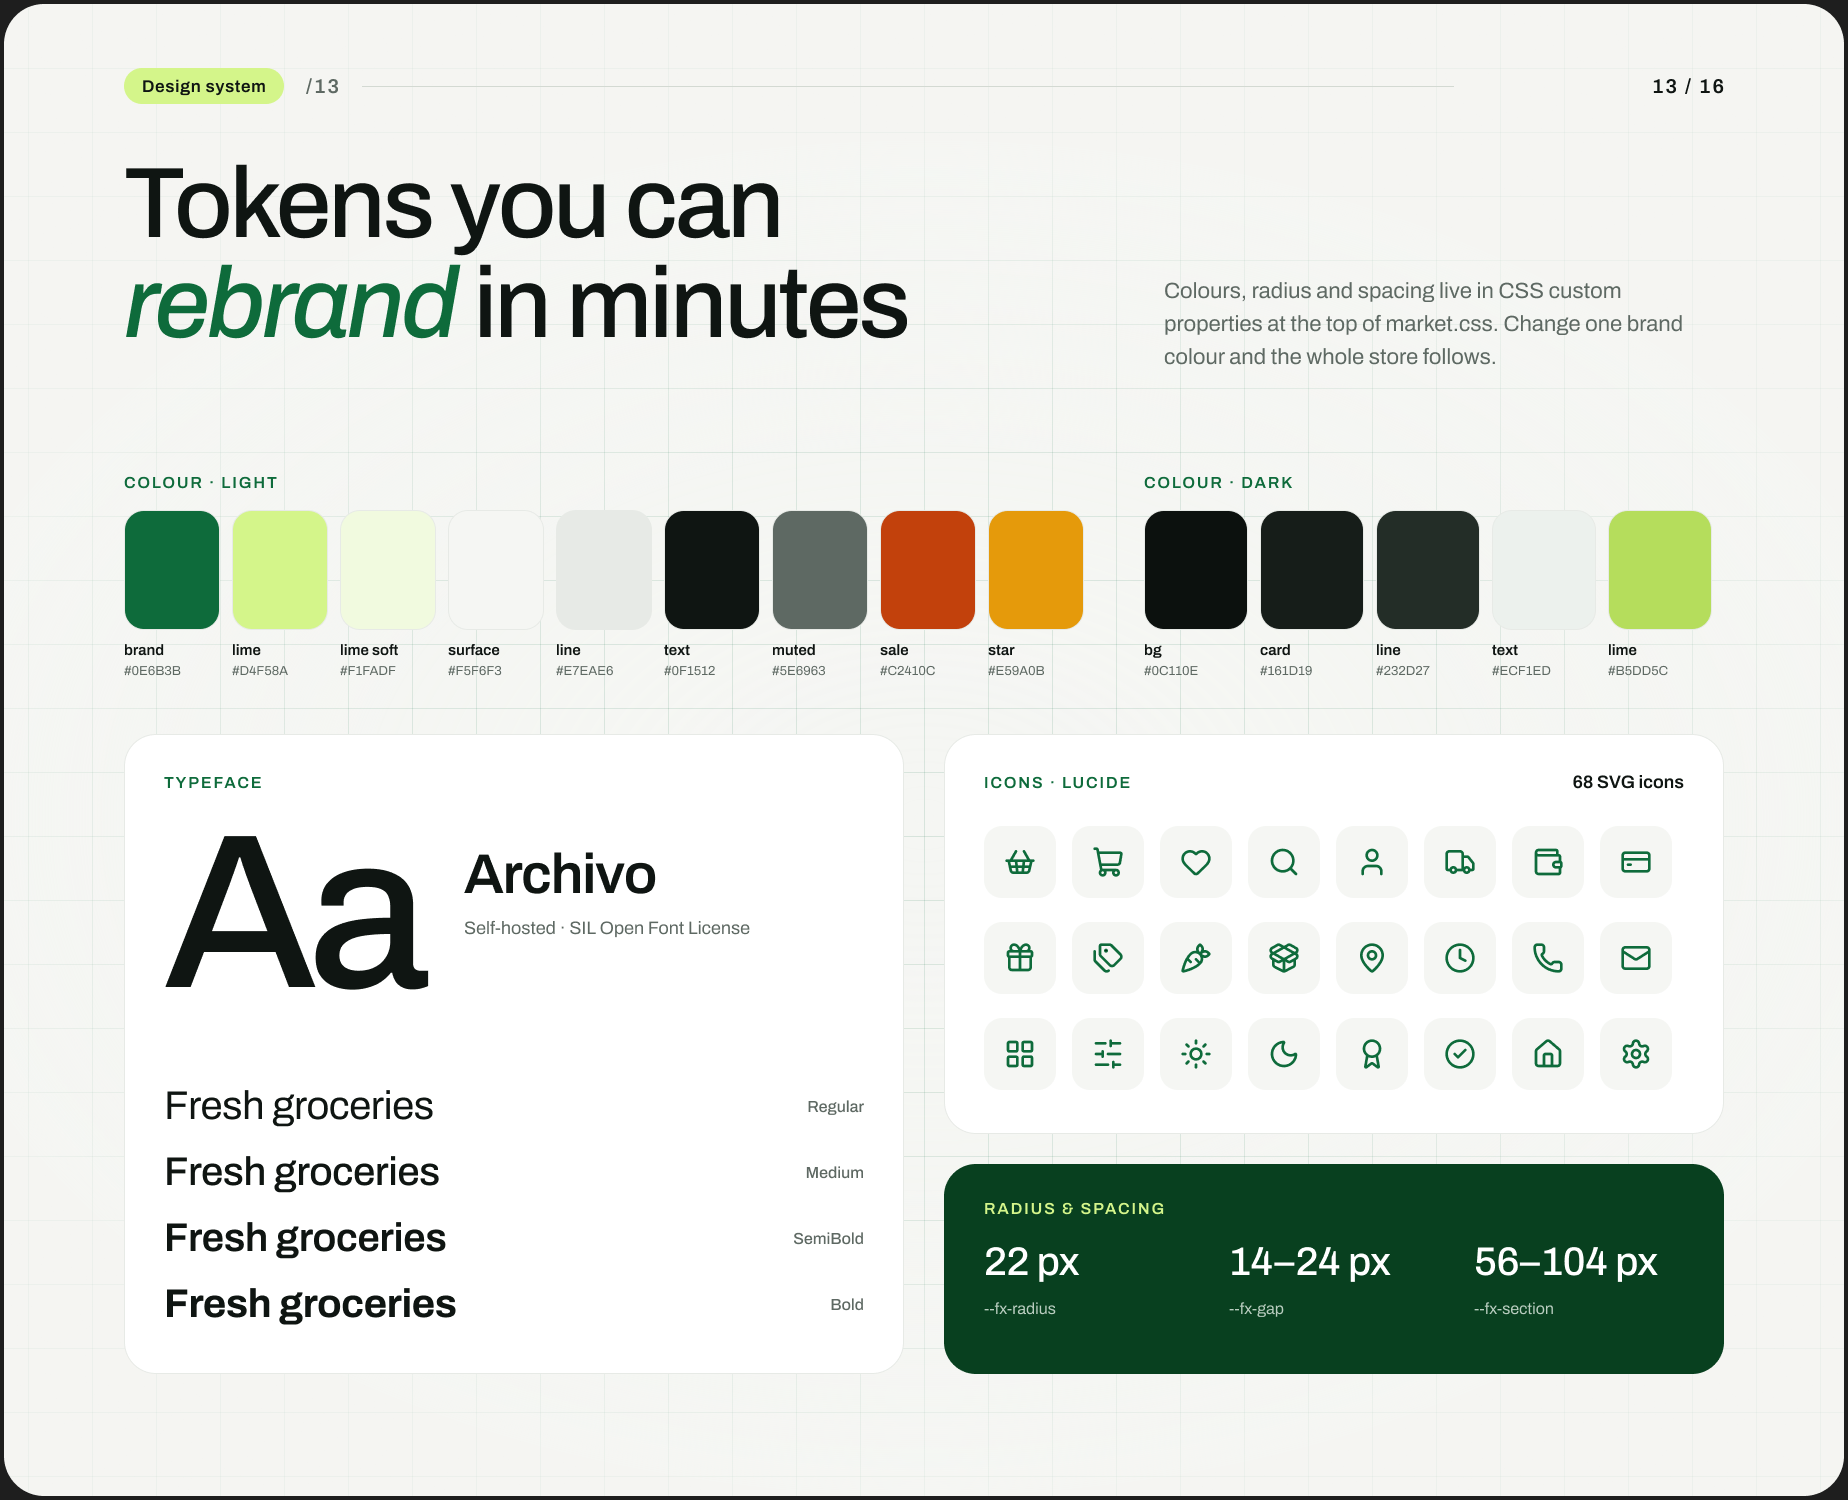
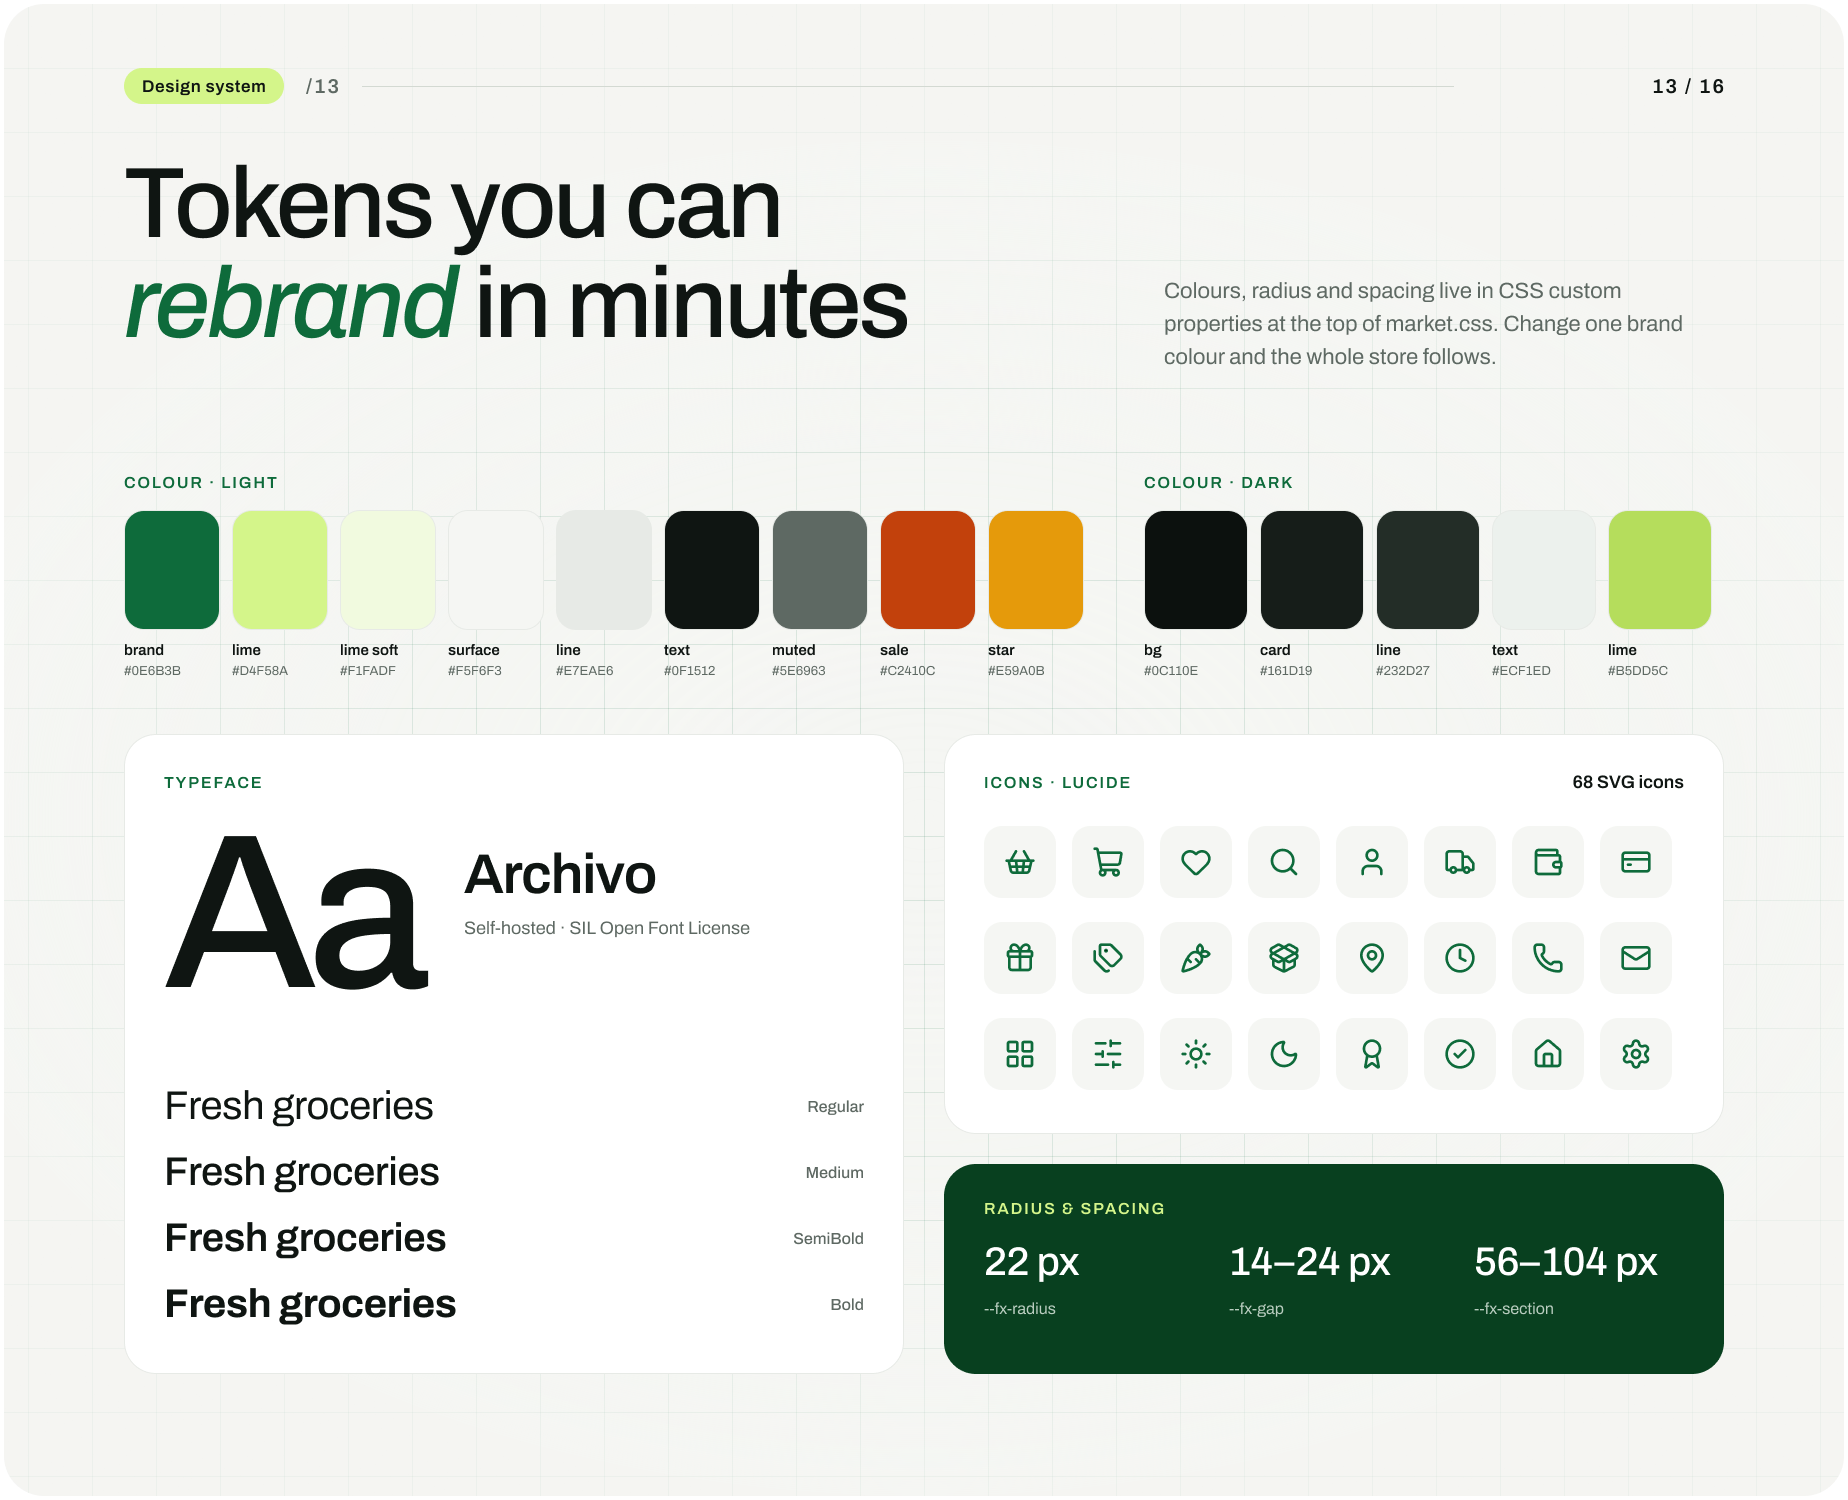
eFreshhh presentation: new background (v1.0.3)

Changed region(s): [[0.0, 0.0, 1.0, 1.0], [0.0, 0.0, 0.0308, 0.0307]]

diff --git a/README.md b/README.md
@@ -17,6 +17,6 @@ Served through jsDelivr:
 | bondly | Bondly dating & social app UI kit | bondly-v1.0.0 |
 | musinto | Musinto music streaming app UI kit | musinto-v1.0.3 |
 | mieo | Mieo kids language-learning app UI kit (Flutter + Figma) | mieo-v1.0.1 |
-| efreshhh | eFreshhh grocery & food delivery HTML template | efreshhh-v1.0.2 |
+| efreshhh | eFreshhh grocery & food delivery HTML template | efreshhh-v1.0.3 |
 
 No template code lives here.
